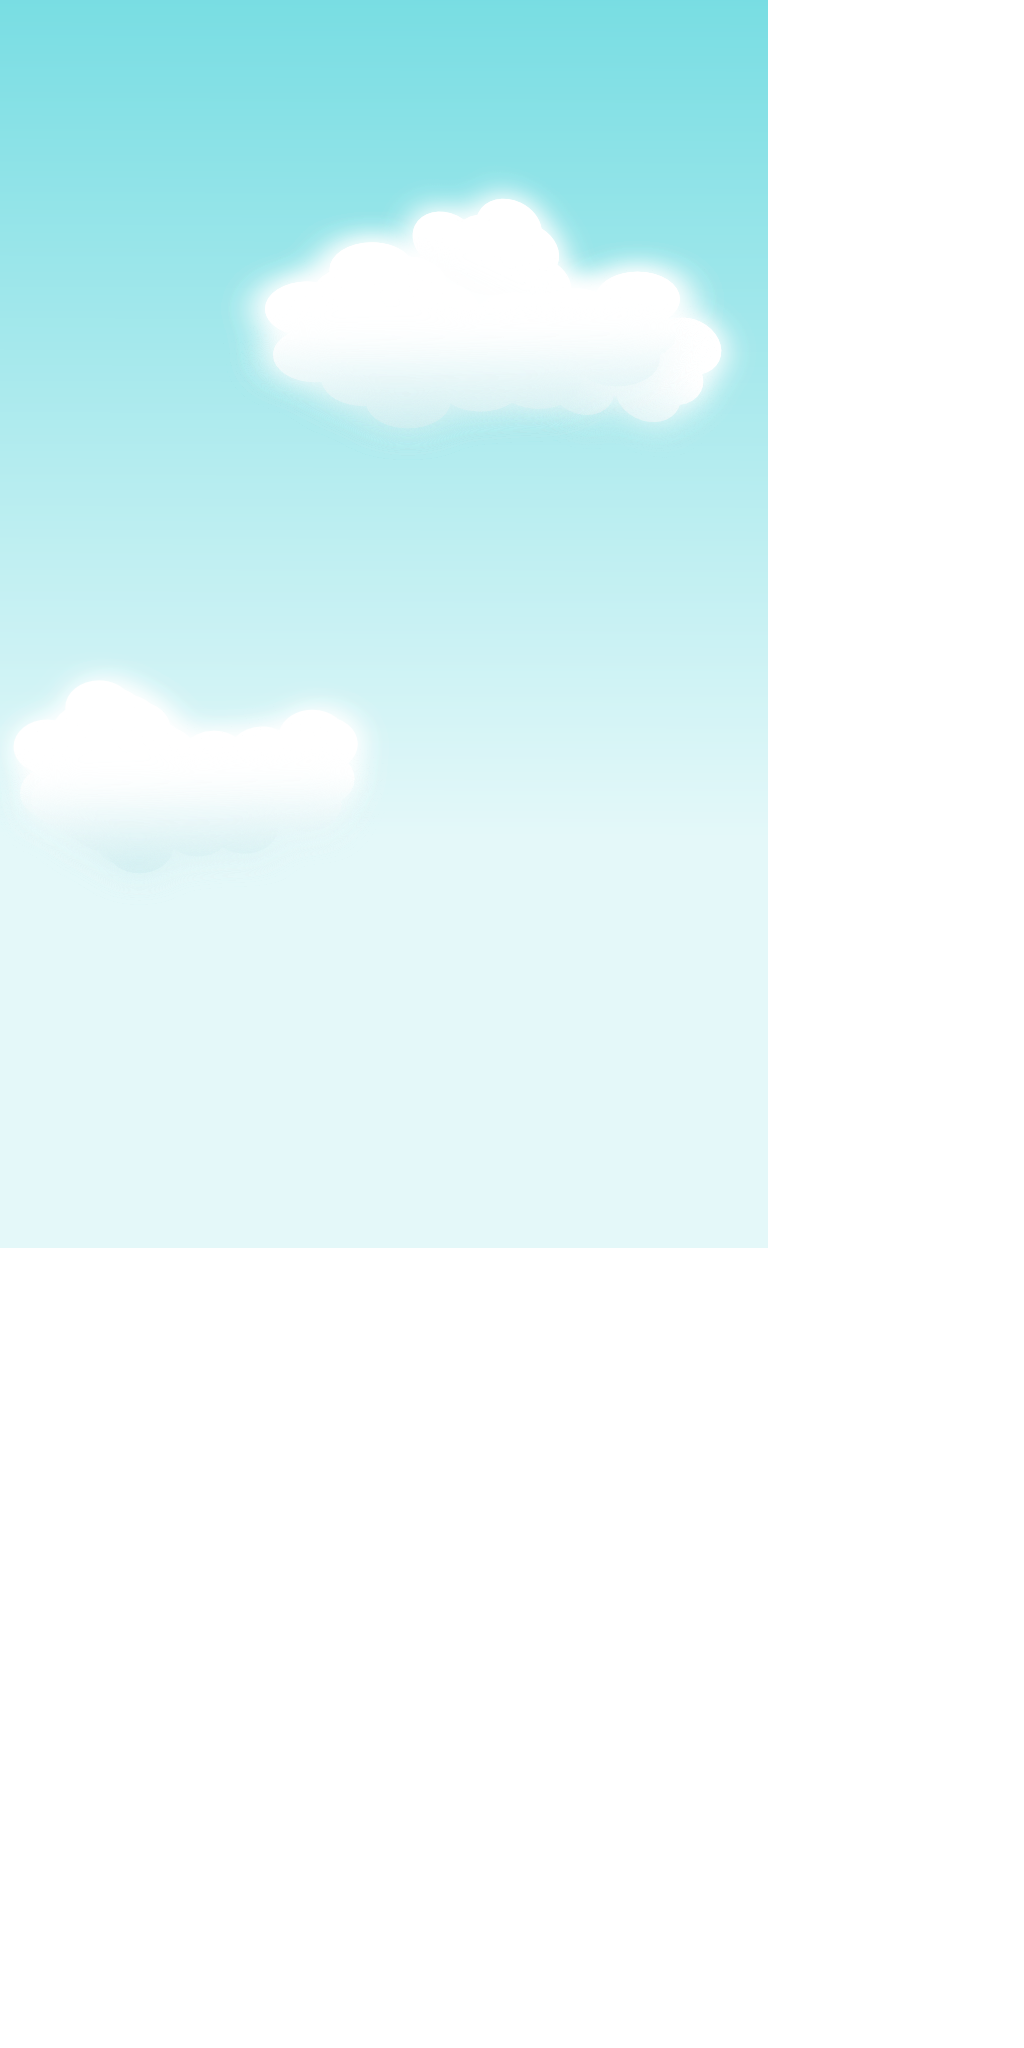
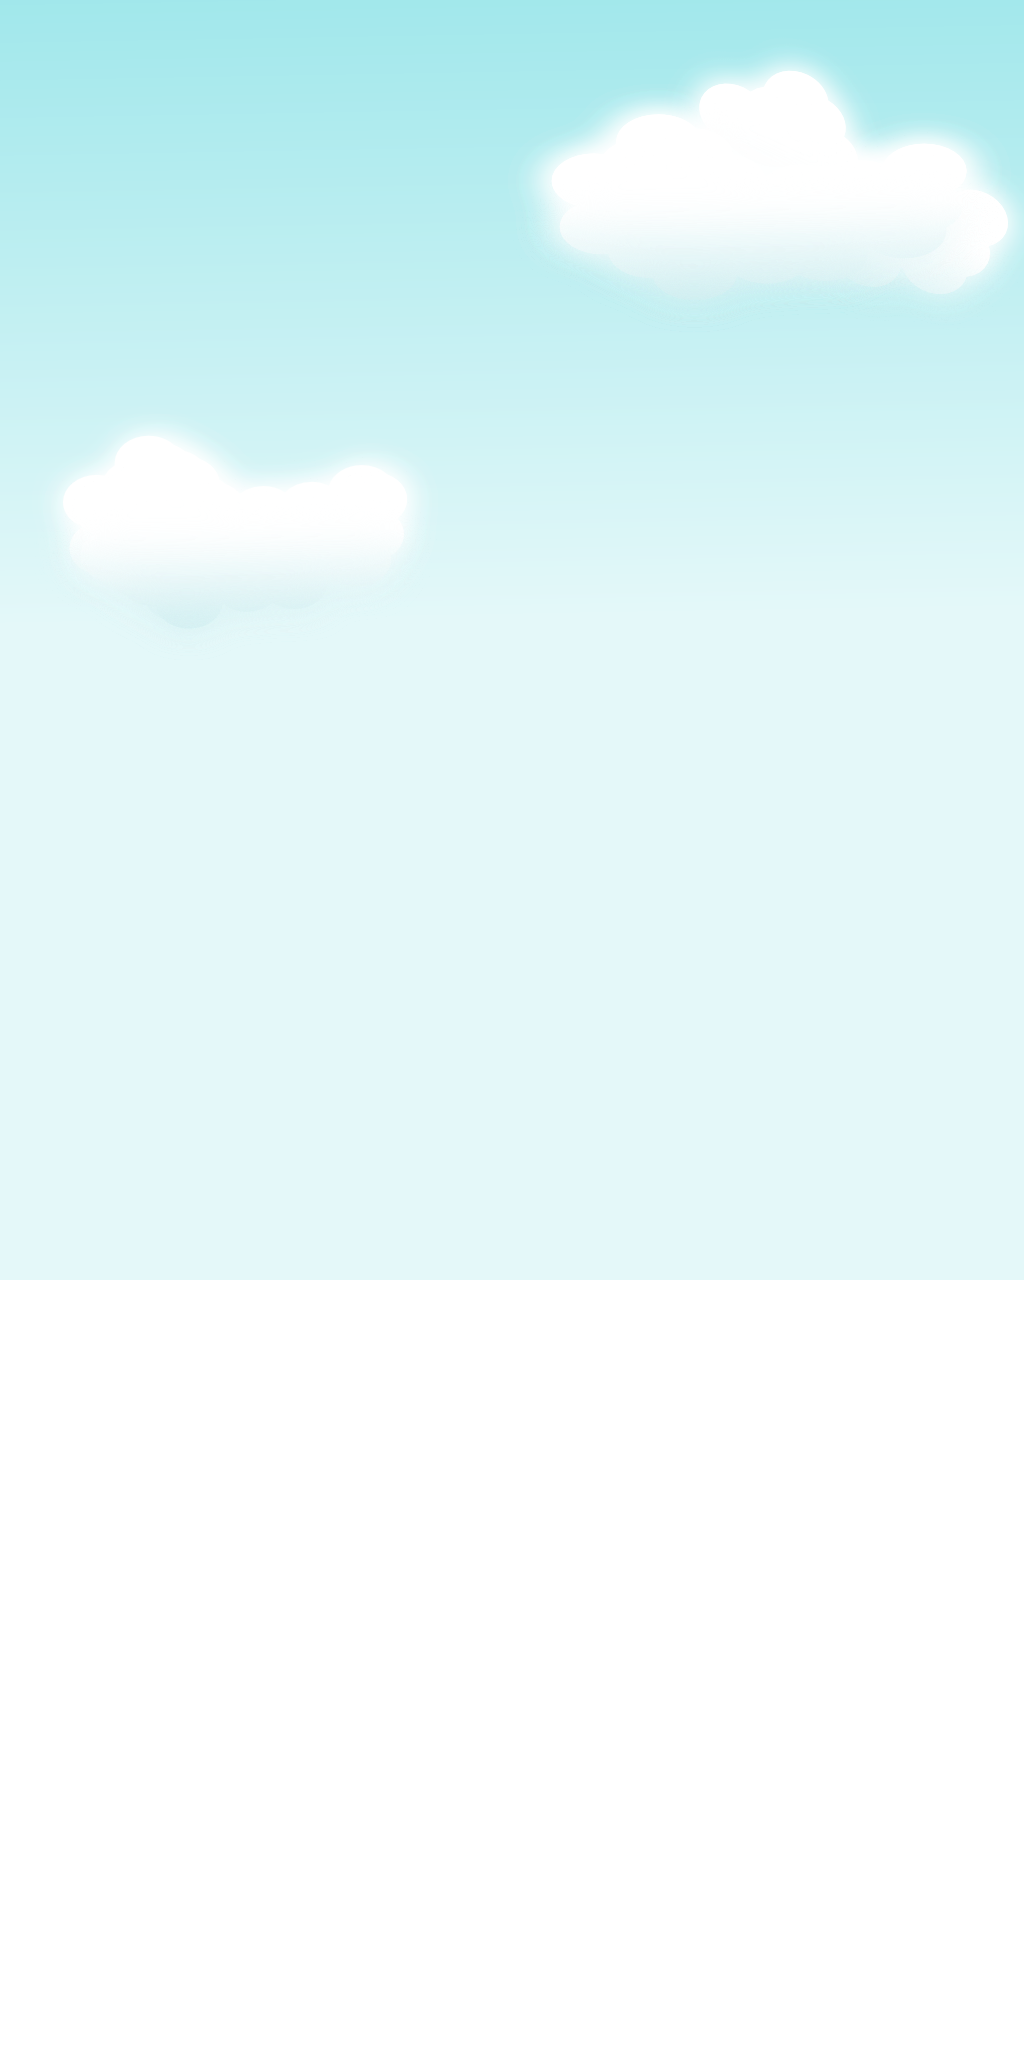
Les modes portrait sont un peu moins moche

diff --git a/puyopuyo-android/src/com/tacoid/puyopuyo/actors/BackgroundActor.java b/puyopuyo-android/src/com/tacoid/puyopuyo/actors/BackgroundActor.java
@@ -6,6 +6,7 @@ import com.badlogic.gdx.graphics.Texture.TextureWrap;
 import com.badlogic.gdx.graphics.g2d.Sprite;
 import com.badlogic.gdx.graphics.g2d.SpriteBatch;
 import com.badlogic.gdx.scenes.scene2d.Actor;
+import com.tacoid.puyopuyo.PuyoPuyo.ScreenOrientation;
 
 public class BackgroundActor extends Actor{
 	
@@ -19,11 +20,22 @@ public class BackgroundActor extends Actor{
     
 	Texture HillsTex;
 
-	public BackgroundActor() {
-		SkyTex = new Texture(Gdx.files.internal("images/menu/sky.png"));
-		SkyTex.setWrap(TextureWrap.Repeat, TextureWrap.Repeat);
-		SkySprite = new Sprite(SkyTex, 0,256,VIRTUAL_WIDTH, VIRTUAL_HEIGHT+256);
-		SkySprite.setSize(VIRTUAL_WIDTH, VIRTUAL_HEIGHT);
+	public BackgroundActor(ScreenOrientation orientation) {
+		switch(orientation) {
+		case LANDSCAPE:
+			SkyTex = new Texture(Gdx.files.internal("images/menu/sky.png"));
+			SkyTex.setWrap(TextureWrap.Repeat, TextureWrap.Repeat);
+			SkySprite = new Sprite(SkyTex, 0,256,VIRTUAL_WIDTH, VIRTUAL_HEIGHT+256);
+			SkySprite.setSize(VIRTUAL_WIDTH, VIRTUAL_HEIGHT);
+			break;
+		case PORTRAIT:
+			SkyTex = new Texture(Gdx.files.internal("images/menu/sky-portrait.png"));			
+			SkyTex.setWrap(TextureWrap.Repeat, TextureWrap.Repeat);
+			SkySprite = new Sprite(SkyTex, 0,0,VIRTUAL_HEIGHT, VIRTUAL_WIDTH);
+			SkySprite.setSize(VIRTUAL_HEIGHT, VIRTUAL_WIDTH);
+		default:
+			break;
+		}
 		HillsTex = new Texture(Gdx.files.internal("images/menu/hills.png"));
 		
 	}

diff --git a/puyopuyo-android/src/com/tacoid/puyopuyo/actors/ControlerActor.java b/puyopuyo-android/src/com/tacoid/puyopuyo/actors/ControlerActor.java
@@ -30,7 +30,6 @@ public class ControlerActor extends Group {
 			addActor(new MoveButton(MoveType.DOWN, logic, 80, 40, downRegion, downDownRegion));
 			addActor(new MoveButton(MoveType.ROT_LEFT, logic, 1000, 200, rotleftRegion, rotleftDownRegion));
 			addActor(new MoveButton(MoveType.ROT_RIGHT, logic, 1125, 260, rotrightRegion, rotrightDownRegion));
-			
 			break;
 		case PORTRAIT:
 			addActor(new MoveButton(MoveType.LEFT, logic, 20, 200, leftRegion, leftDownRegion));
@@ -38,7 +37,6 @@ public class ControlerActor extends Group {
 			addActor(new MoveButton(MoveType.DOWN, logic, 80, 20, downRegion, downDownRegion));
 			addActor(new MoveButton(MoveType.ROT_LEFT, logic, 488, 100, rotleftRegion, rotleftDownRegion));
 			addActor(new MoveButton(MoveType.ROT_RIGHT, logic, 613, 160, rotrightRegion, rotrightDownRegion));
-			
 			break;
 		default:
 			break;

diff --git a/puyopuyo-android/src/com/tacoid/puyopuyo/MainMenuScreen.java b/puyopuyo-android/src/com/tacoid/puyopuyo/MainMenuScreen.java
@@ -42,7 +42,7 @@ public class MainMenuScreen implements Screen {
 		stage = new Stage(Gdx.graphics.getWidth(), Gdx.graphics.getHeight(),
 				false);
 		
-		stage.addActor(new BackgroundActor());
+		stage.addActor(new BackgroundActor(ScreenOrientation.LANDSCAPE));
 		
 		SwingMenu menu = new SwingMenu(ScreenOrientation.LANDSCAPE);
 		
@@ -71,7 +71,7 @@ public class MainMenuScreen implements Screen {
 
 		menu.show();
 		
-		MusicPlayer.getInstance().setVolume(0.8f);
+		MusicPlayer.getInstance().setVolume(0.0f);
 		MusicPlayer.getInstance().playMusic(MusicType.MAIN, true);
 		
 	}

diff --git a/puyopuyo-android/src/com/tacoid/puyopuyo/GameSoloScreen.java b/puyopuyo-android/src/com/tacoid/puyopuyo/GameSoloScreen.java
@@ -69,7 +69,7 @@ public class GameSoloScreen implements Screen {
 		ScoreActor scoreActor = new ScoreActor(gameLogic, 590, 1230);
 		
 		TextureRegion pauseRegion = new TextureRegion(PuyoPuyo.getInstance().manager.get("images/pause_button.png",Texture.class), 32, 32);
-		stage.addActor(new BackgroundActor());
+		stage.addActor(new BackgroundActor(ScreenOrientation.PORTRAIT));
 		stage.addActor(new PortraitPanelActor());
 		stage.addActor(gridActor);
 		stage.addActor(nextPieceActor);

diff --git a/puyopuyo-android/src/com/tacoid/puyopuyo/GameVersusScreen.java b/puyopuyo-android/src/com/tacoid/puyopuyo/GameVersusScreen.java
@@ -83,7 +83,7 @@ public class GameVersusScreen implements Screen {
 
 		TextureRegion pauseRegion = new TextureRegion(PuyoPuyo.getInstance().manager.get("images/pause_button.png",Texture.class), 32, 32);
 
-		stage.addActor(new BackgroundActor());
+		stage.addActor(new BackgroundActor(ScreenOrientation.LANDSCAPE));
 		stage.addActor(new LandscapePanelActor());
 		
 		stage.addActor(gridActor);
